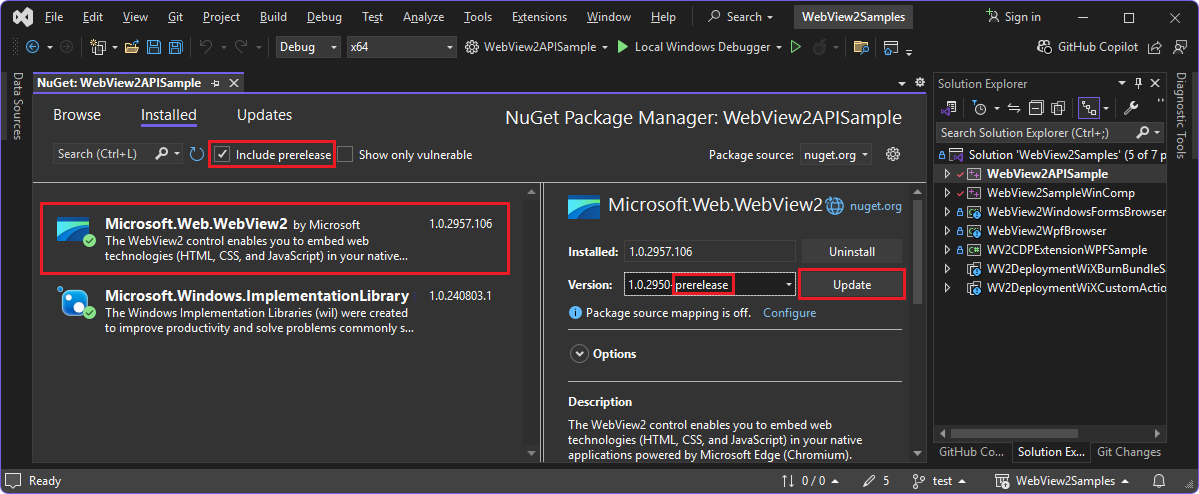
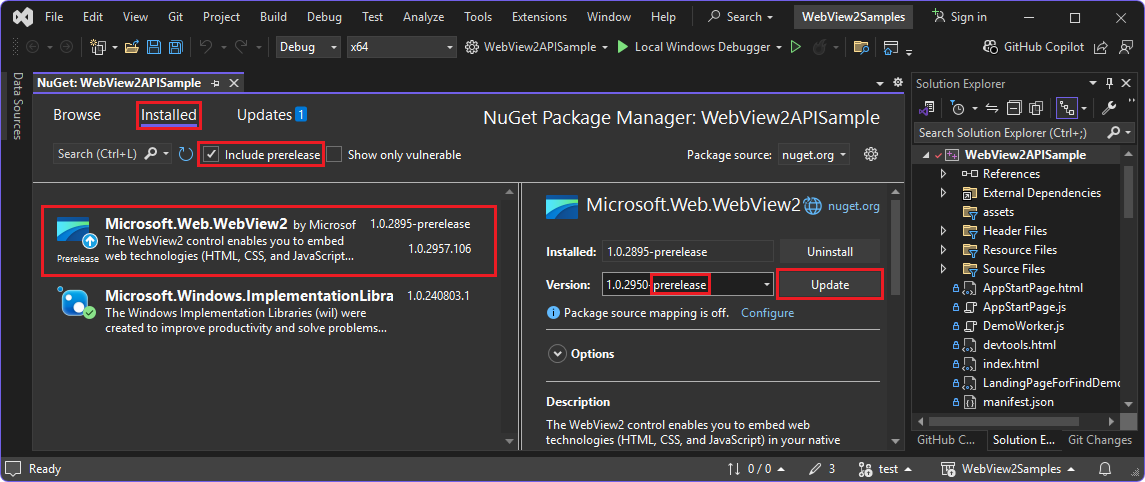
png update Prerel to Prerel

diff --git a/microsoft-edge/webview2/samples/webview2apissample.md b/microsoft-edge/webview2/samples/webview2apissample.md
@@ -254,11 +254,15 @@ Continuing from above: If prompted to install workloads when you try to build th
 
 1. In **Installation details** on the right, expand **Desktop development with C++**.
 
-See also:
+1. Click the **Update** or **Install** button.
 
+   The Installer closes.
+
+See also:
+* [Step 4 - Install workloads if prompted](../get-started/win32.md#step-4---install-workloads-if-prompted) in _Get started with WebView2 in Win32 apps_.
 * [Install Visual Studio workloads](../how-to/machine-setup.md#install-visual-studio-workloads) in _Set up your Dev environment for WebView2_.
 
-You don't need to install WiX to continue.  Installing WiX is covered in [WiX Burn Bundle to deploy the WebView2 Runtime](./wv2deploymentwixburnbundlesample.md).
+You don't need to install WiX to continue; that's for a different project in this solution file.  Installing WiX is covered in [WiX Burn Bundle to deploy the WebView2 Runtime](./wv2deploymentwixburnbundlesample.md).
 
 
 <!-- ====================================================================== -->
@@ -288,13 +292,20 @@ At the top of Visual Studio, set the build target, as follows:
 <!-- ====================================================================== -->
 ## Step 8: Update the prerelease WebView2 SDK
 
-The repo version of this sample has a Prerelease version of the WebView2 SDK installed.  Below, you'll update it to the latest Prerelease version of the WebView2 SDK (unless latest is installed already).  Using a Prerelease SDK gives you access to the latest functionality.
+The repo version of this sample has a Prerelease version of the WebView2 SDK installed.  Below, you'll update the WebView2 SDK to the latest Prerelease version (unless the latest Prerelease SDK is installed already).  A Prerelease SDK supports the latest experimental APIs and the latest "Stable in Prerelease" APIs.
 
 1. Check the version number of the Prerelease SDK that's in the repo's copy of the **WebView2APISample** app at GitHub: see [packages.config](https://github.com/MicrosoftEdge/WebView2Samples/blob/main/SampleApps/WebView2APISample/packages.config).
 
+   For example:
+
+   ```xml
+   <package id="Microsoft.Web.WebView2" version="1.0.2950-prerelease" targetFramework="native" />
+   <package id="Microsoft.Windows.ImplementationLibrary" version="1.0.220201.1" targetFramework="native" />
+   ```
+
 1. Check what's the latest Prerelease version number, at [Release Notes for the WebView2 SDK](../release-notes/index.md).
 
-1. In Solution Explorer, right-click the **WebView2APISample** project (not the solution node above it), and then select **Manage NuGet Packages**.
+1. In Visual Studio, in **Solution Explorer**, right-click the **WebView2APISample** project (not the solution node above it), and then select **Manage NuGet Packages**.
 
    The **NuGet Package Manager** panel opens in Visual Studio.
 
@@ -319,6 +330,9 @@ The repo version of this sample has a Prerelease version of the WebView2 SDK ins
 1. Repeat the above steps to update the **Microsoft.Windows.Implementation.Library**, but you can select the latest Release rather than latest Prerelease.
 
    The latest prerelease version of the WebView2 SDK is now installed for this project.
+
+See also:
+* [Phases of adding APIs](../release-notes/about.md#phases-of-adding-apis) in _About Release Notes for the WebView2 SDK_.
 
 
 <!-- ====================================================================== -->
@@ -780,3 +794,4 @@ The following steps show how the WebView can get information from the Win32 Host
 * [WebView2 API Reference](../webview2-api-reference.md)
 * [Get started with WebView2 in Win32 apps](../get-started/win32.md)
 * [Overview of WebView2 APIs](../concepts/overview-features-apis.md)
+* [Phases of adding APIs](../release-notes/about.md#phases-of-adding-apis) in _About Release Notes for the WebView2 SDK_.
